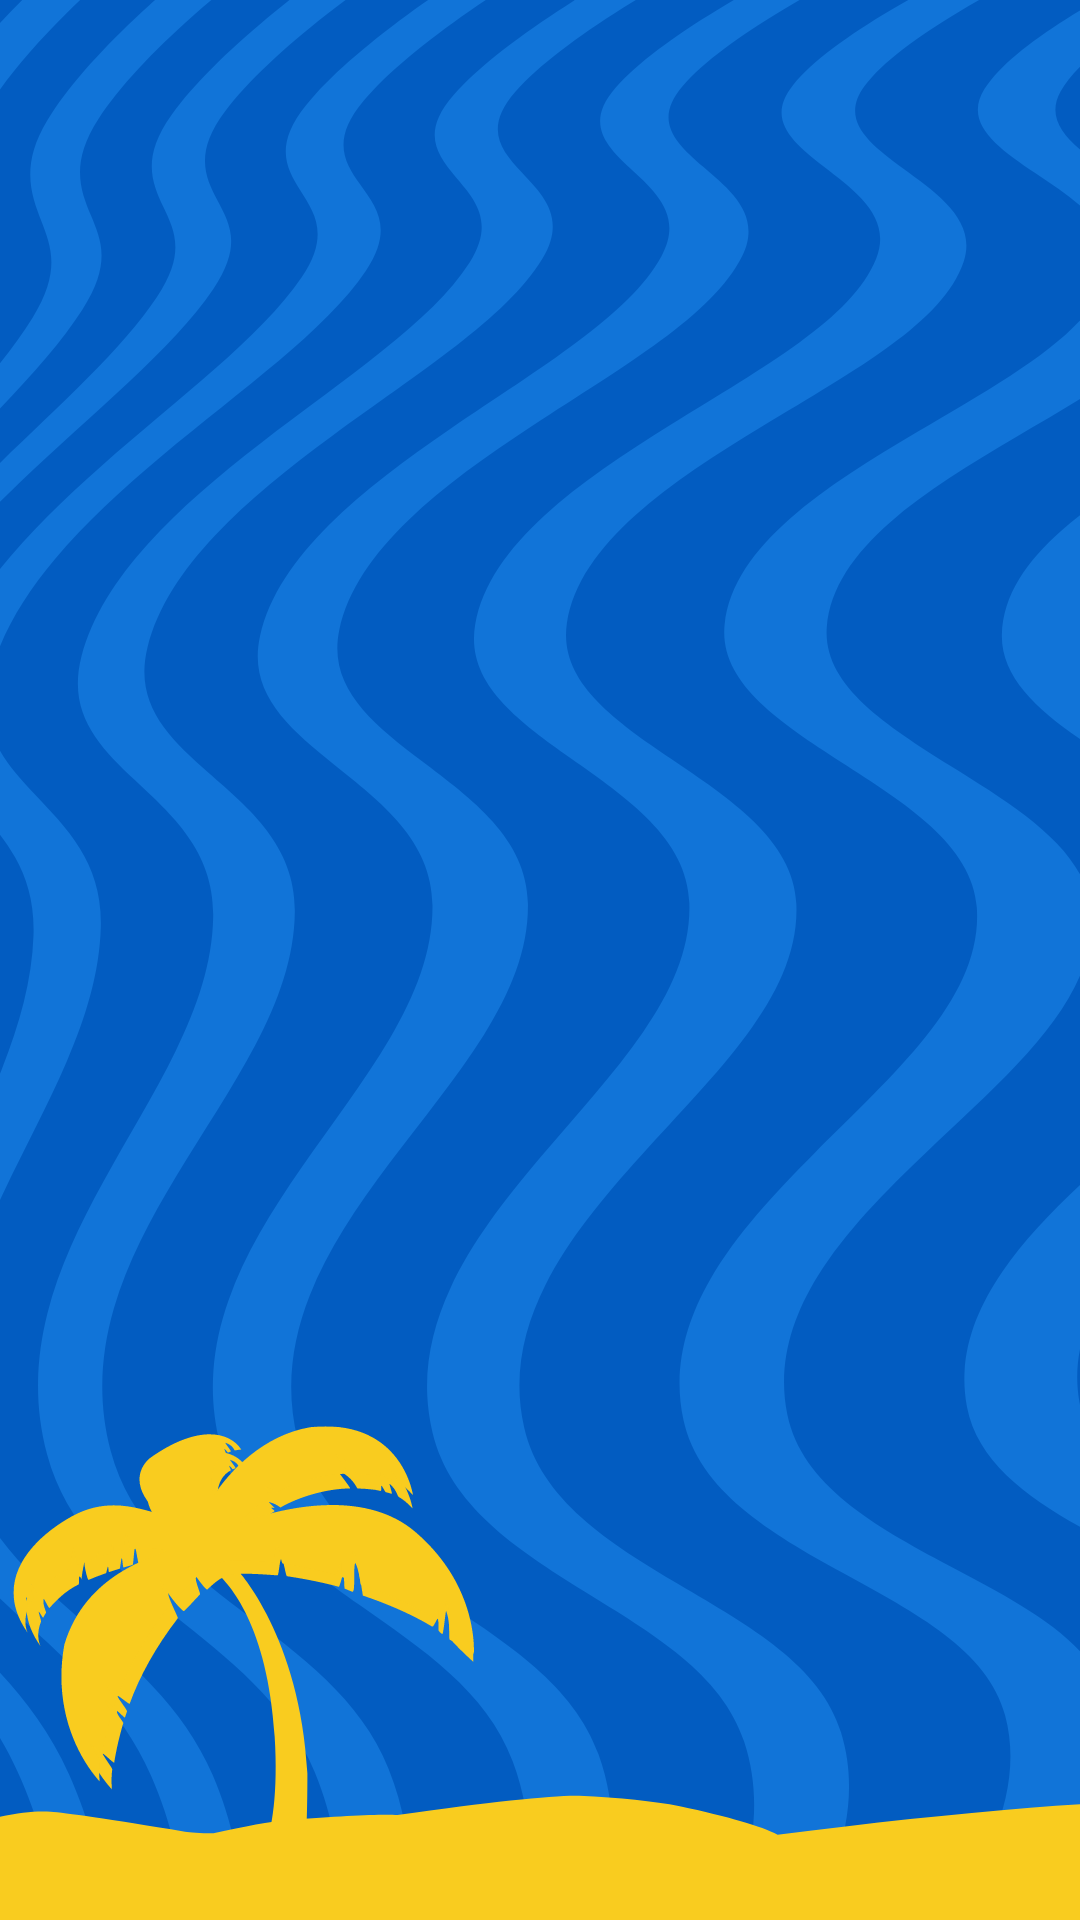
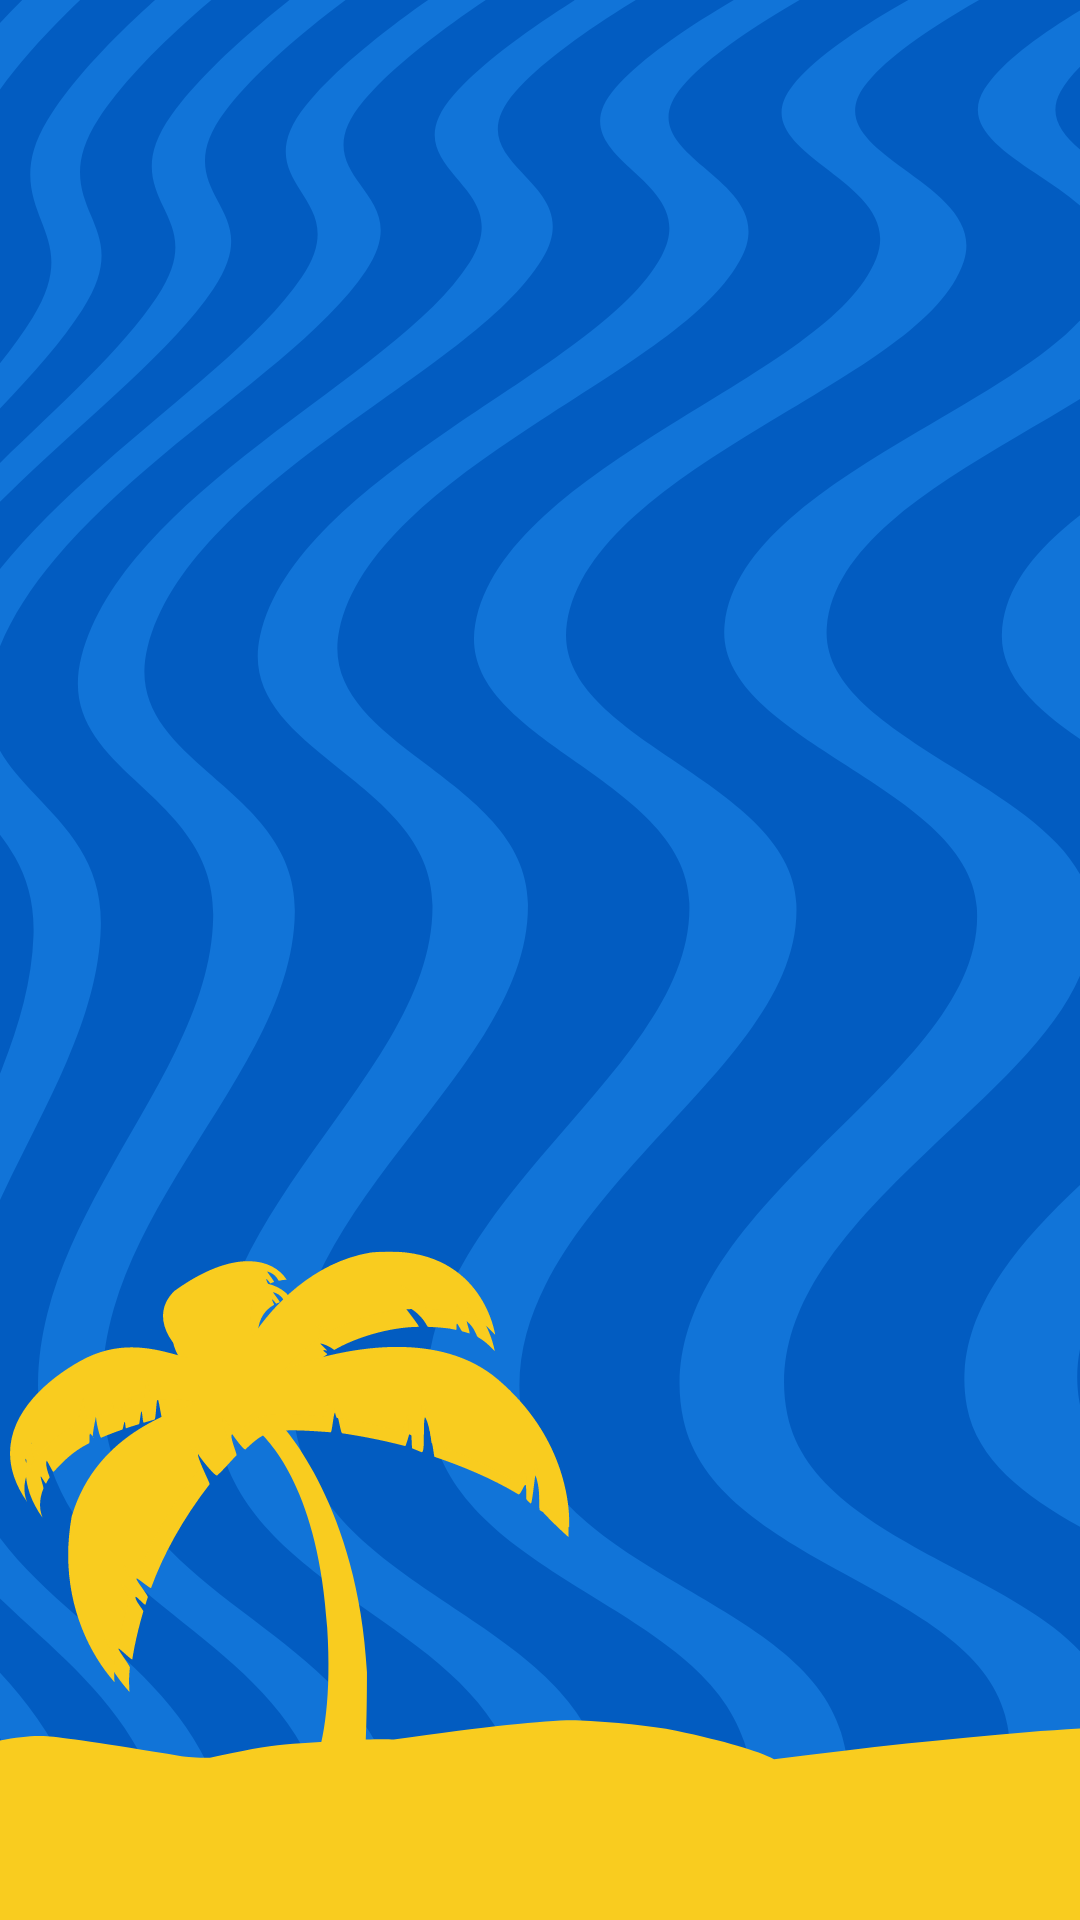
Commit 3:
-Mudança de Background
-Adição de Favicon
-Mudança da PageName

Changed region(s): [[0.0, 0.625, 1.0, 0.9688]]

diff --git a/src/App.vue b/src/App.vue
@@ -1,5 +1,5 @@
 <template>
-  <div id="app" class="bg-background-image h-screen bg-top bg-cover">
+  <div id="app" class="bg-background-image h-screen w-screen bg-cover">
     <div id="header" class="w-80 mx-auto flex flex-1 justify-center flex-col items-center">
         <img src="./assets/LogoPagode.svg" alt="Logo do Pagode do Negão 2.0" class="w-1/2">
         <label for="themeSwitcherOne" class="relative inline-flex select-none items-center justify-center gap-2 w-80 rounded-full p-3">
@@ -9,7 +9,7 @@
           </span>
         </label>
     </div>
-
+    
     <div v-if="isChecked" class="pix">
       <div id="body" class="bg-pink-600 rounded-xl flex flex-col justify-center items-center w-80 mx-auto p-4">
       <span class="text-white flex gap-1 items-center justify-center mx-auto w-1/5 rounded-full mb-3 bg-pink-600 bg-opacity-80 text-base font-secundaria">

diff --git a/public/index.html b/public/index.html
@@ -4,8 +4,8 @@
     <meta charset="utf-8">
     <meta http-equiv="X-UA-Compatible" content="IE=edge">
     <meta name="viewport" content="width=device-width,initial-scale=1.0">
-    <link rel="icon" href="<%= BASE_URL %>favicon.ico">
-    <title><%= htmlWebpackPlugin.options.title %></title>
+    <link rel="icon" href="<%= BASE_URL %>favicon.svg">
+    <title>Checkout Pagode do Negão 2.0</title>
   </head>
   <body>
     <noscript>
